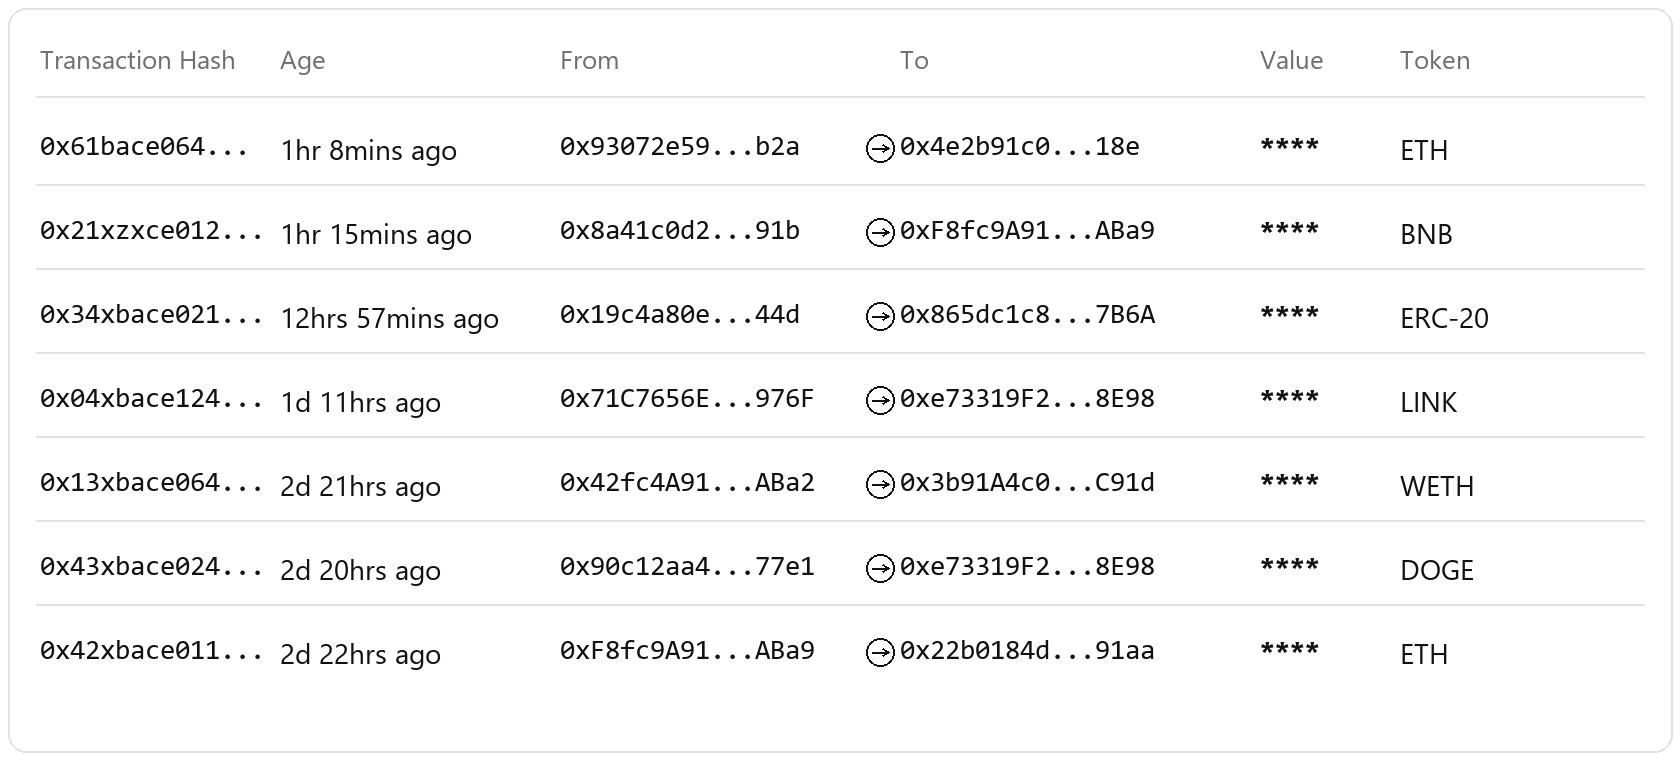
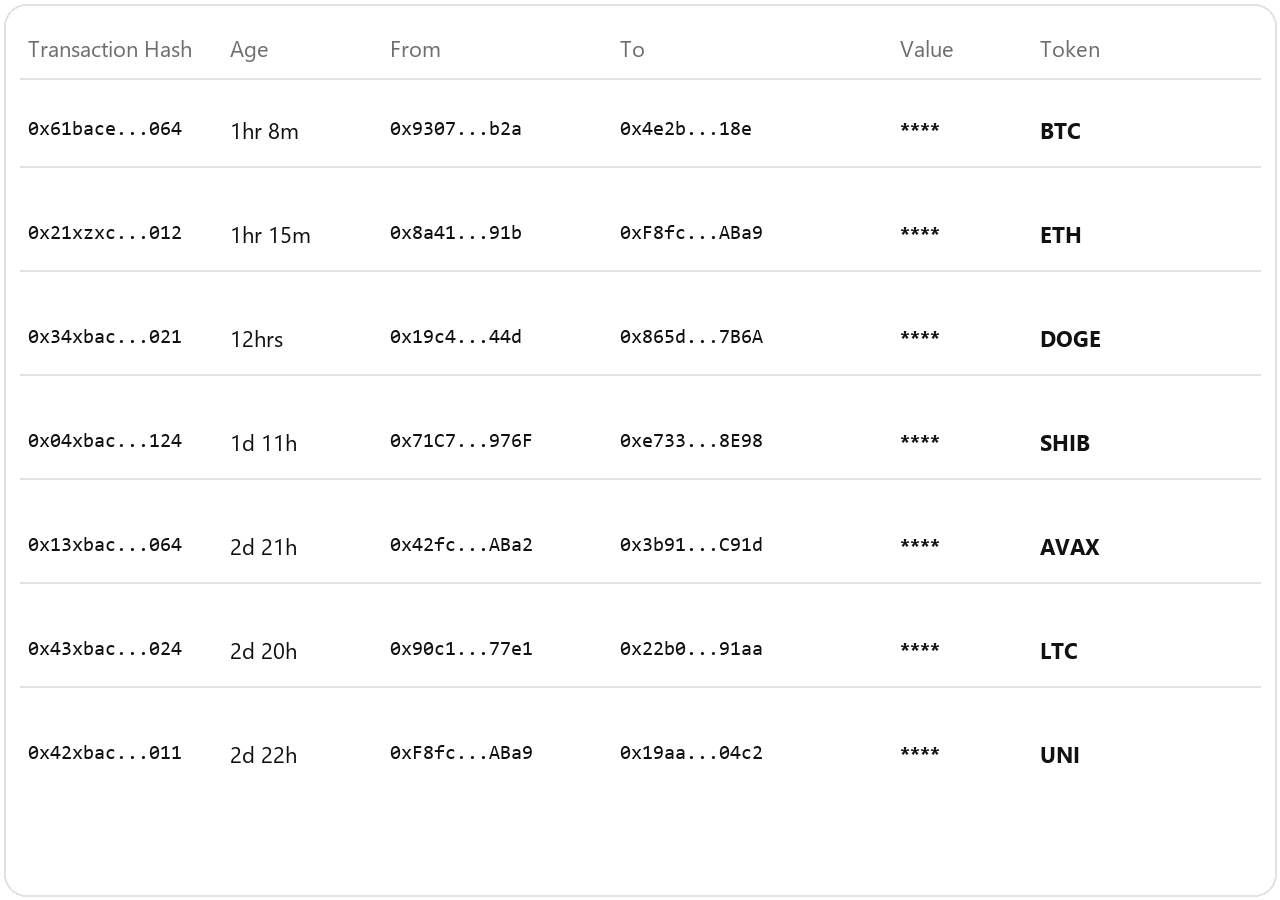
Fit the transfer explorer to the other images and use Robinhood tickers.

diff --git a/components/Applications.tsx b/components/Applications.tsx
@@ -7,7 +7,6 @@ const rows = [
     alt: "A balance shown as four asterisks",
     panel: true,
     flip: false,
-    wide: false,
   },
   {
     number: "2",
@@ -15,9 +14,8 @@ const rows = [
     body: "confidentialTransfer, instead of transfer.",
     image: "/sec-transfer.png",
     alt: "An explorer table whose values are four asterisks",
-    panel: false,
+    panel: true,
     flip: true,
-    wide: true,
   },
   {
     number: "3",
@@ -27,7 +25,6 @@ const rows = [
     alt: "A glass over a redacted balance",
     panel: true,
     flip: false,
-    wide: false,
   },
 ];
 
@@ -44,9 +41,14 @@ export function Applications() {
         </p>
 
         <div className="mt-16 space-y-16 md:mt-20 md:space-y-24">
-          {rows.map((row) =>
-            row.wide ? (
-              <div key={row.number}>
+          {rows.map((row) => (
+            <div key={row.number} className="grid items-center gap-8 md:grid-cols-2 md:gap-16">
+              <div className={row.flip ? "md:order-2" : ""}>
+                <div className={row.panel ? "rounded-2xl bg-[#ececec] px-6 py-8" : "px-2 py-4"}>
+                  <img src={row.image} alt={row.alt} className="mx-auto h-64 w-full object-contain sm:h-72" />
+                </div>
+              </div>
+              <div className={row.flip ? "md:order-1" : ""}>
                 <span className="inline-flex h-7 w-7 items-center justify-center bg-black text-[14px] font-medium text-white">
                   {row.number}
                 </span>
@@ -54,27 +56,9 @@ export function Applications() {
                   {row.title}
                 </h3>
                 <p className="mt-3 max-w-md text-[16px] leading-7 text-[#4a4a4a]">{row.body}</p>
-                <img src={row.image} alt={row.alt} className="mt-8 w-full" />
               </div>
-            ) : (
-              <div key={row.number} className="grid items-center gap-8 md:grid-cols-2 md:gap-16">
-                <div className={row.flip ? "md:order-2" : ""}>
-                  <div className={row.panel ? "rounded-2xl bg-[#ececec] px-6 py-8" : "px-2 py-4"}>
-                    <img src={row.image} alt={row.alt} className="mx-auto h-64 w-full object-contain sm:h-72" />
-                  </div>
-                </div>
-                <div className={row.flip ? "md:order-1" : ""}>
-                  <span className="inline-flex h-7 w-7 items-center justify-center bg-black text-[14px] font-medium text-white">
-                    {row.number}
-                  </span>
-                  <h3 className="mt-4 text-[1.85rem] font-medium leading-tight tracking-[-0.03em] text-[#242424] sm:text-[2.15rem]">
-                    {row.title}
-                  </h3>
-                  <p className="mt-3 max-w-md text-[16px] leading-7 text-[#4a4a4a]">{row.body}</p>
-                </div>
-              </div>
-            ),
-          )}
+            </div>
+          ))}
         </div>
       </div>
     </section>
